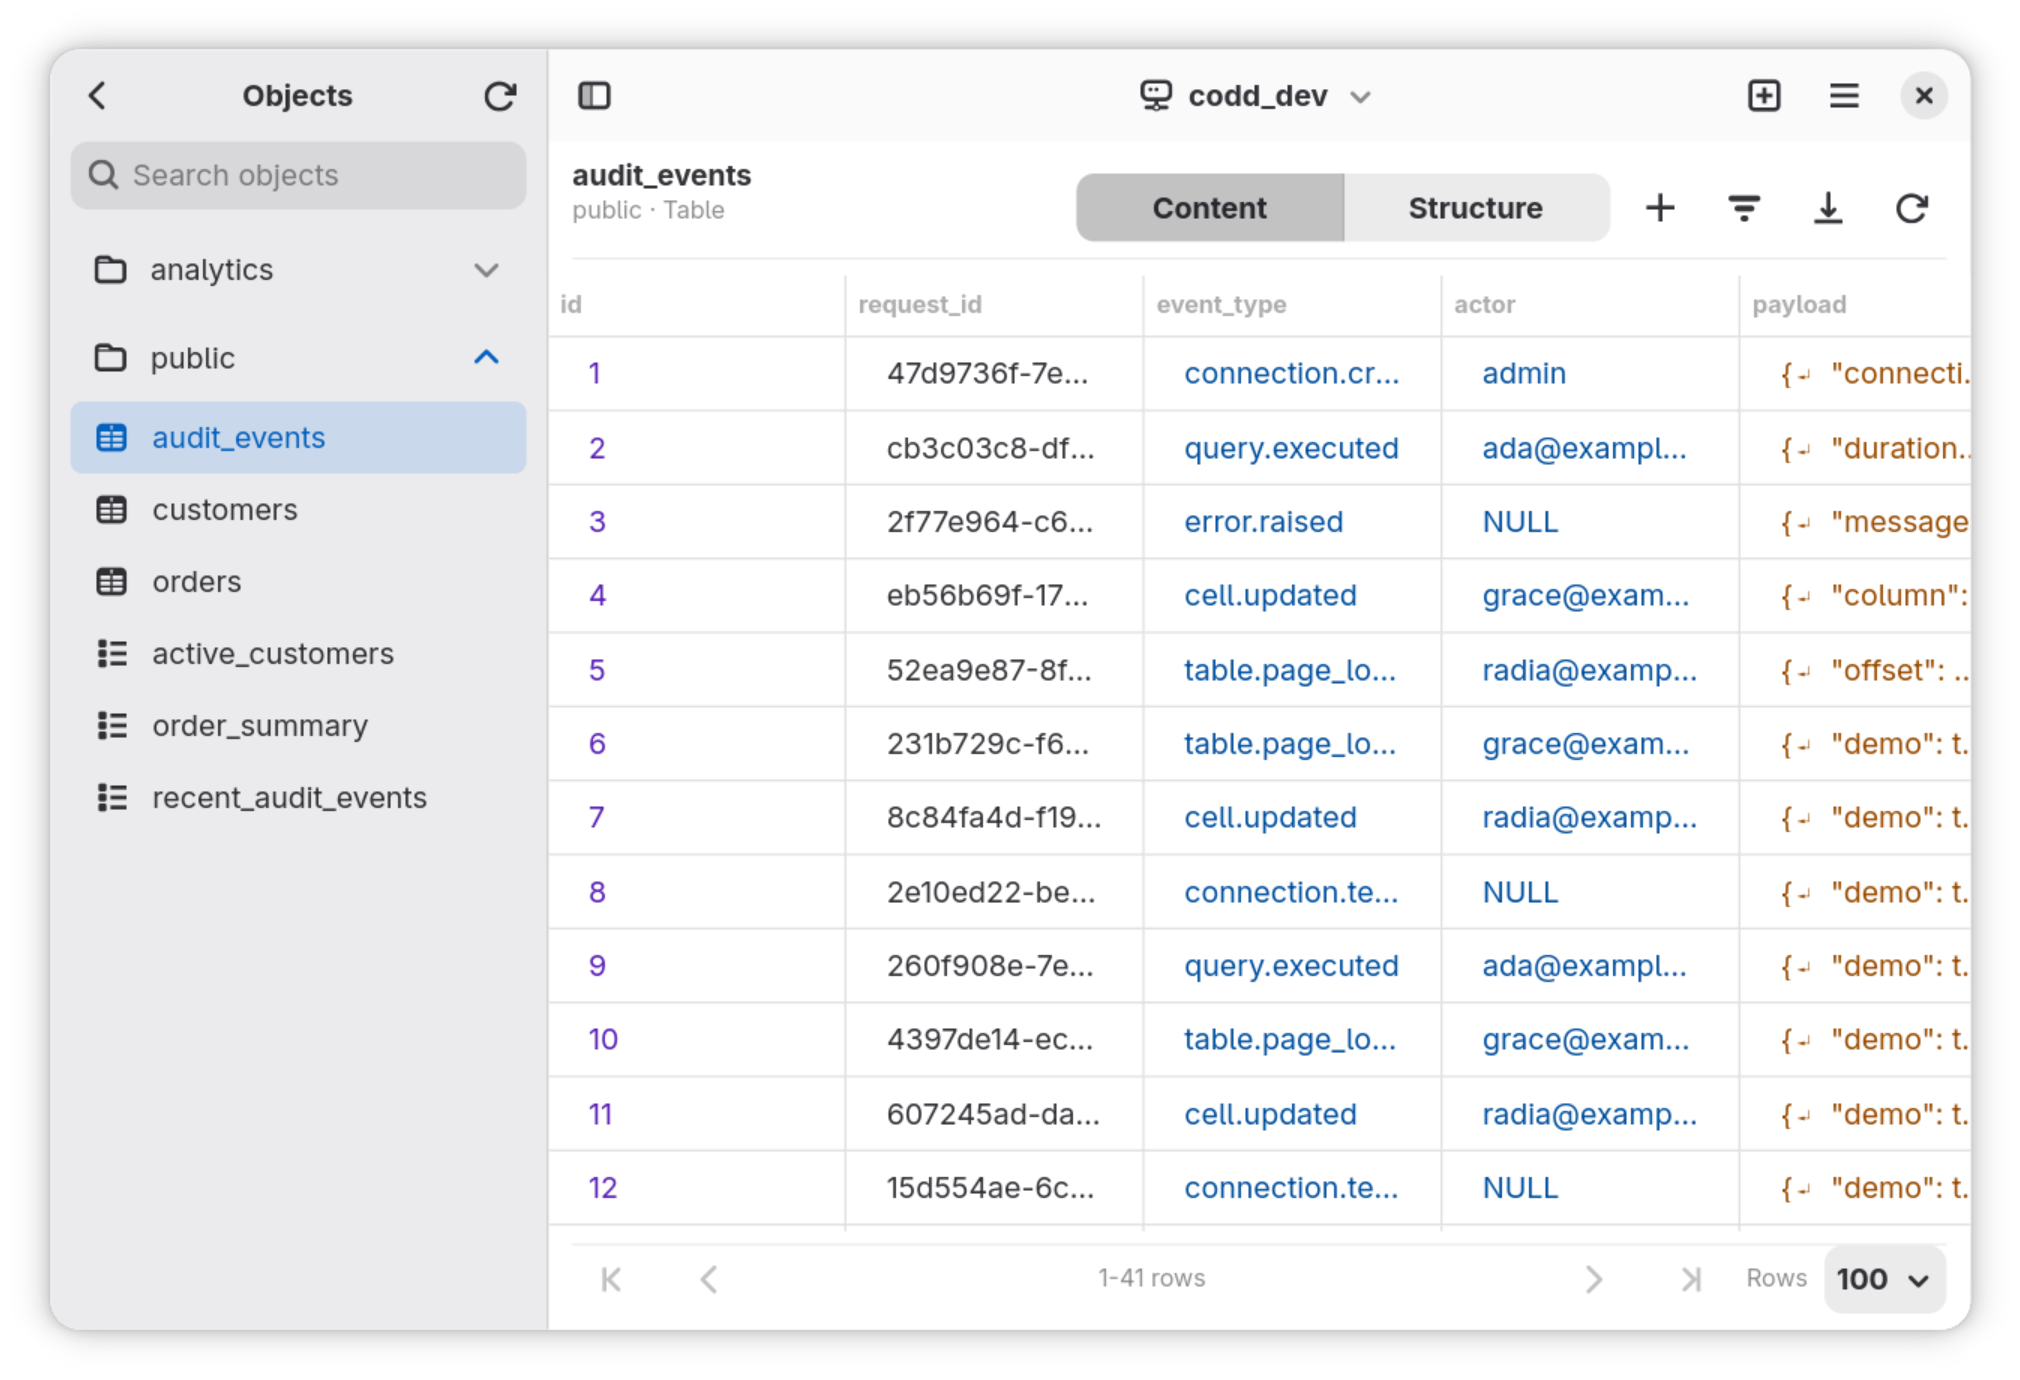
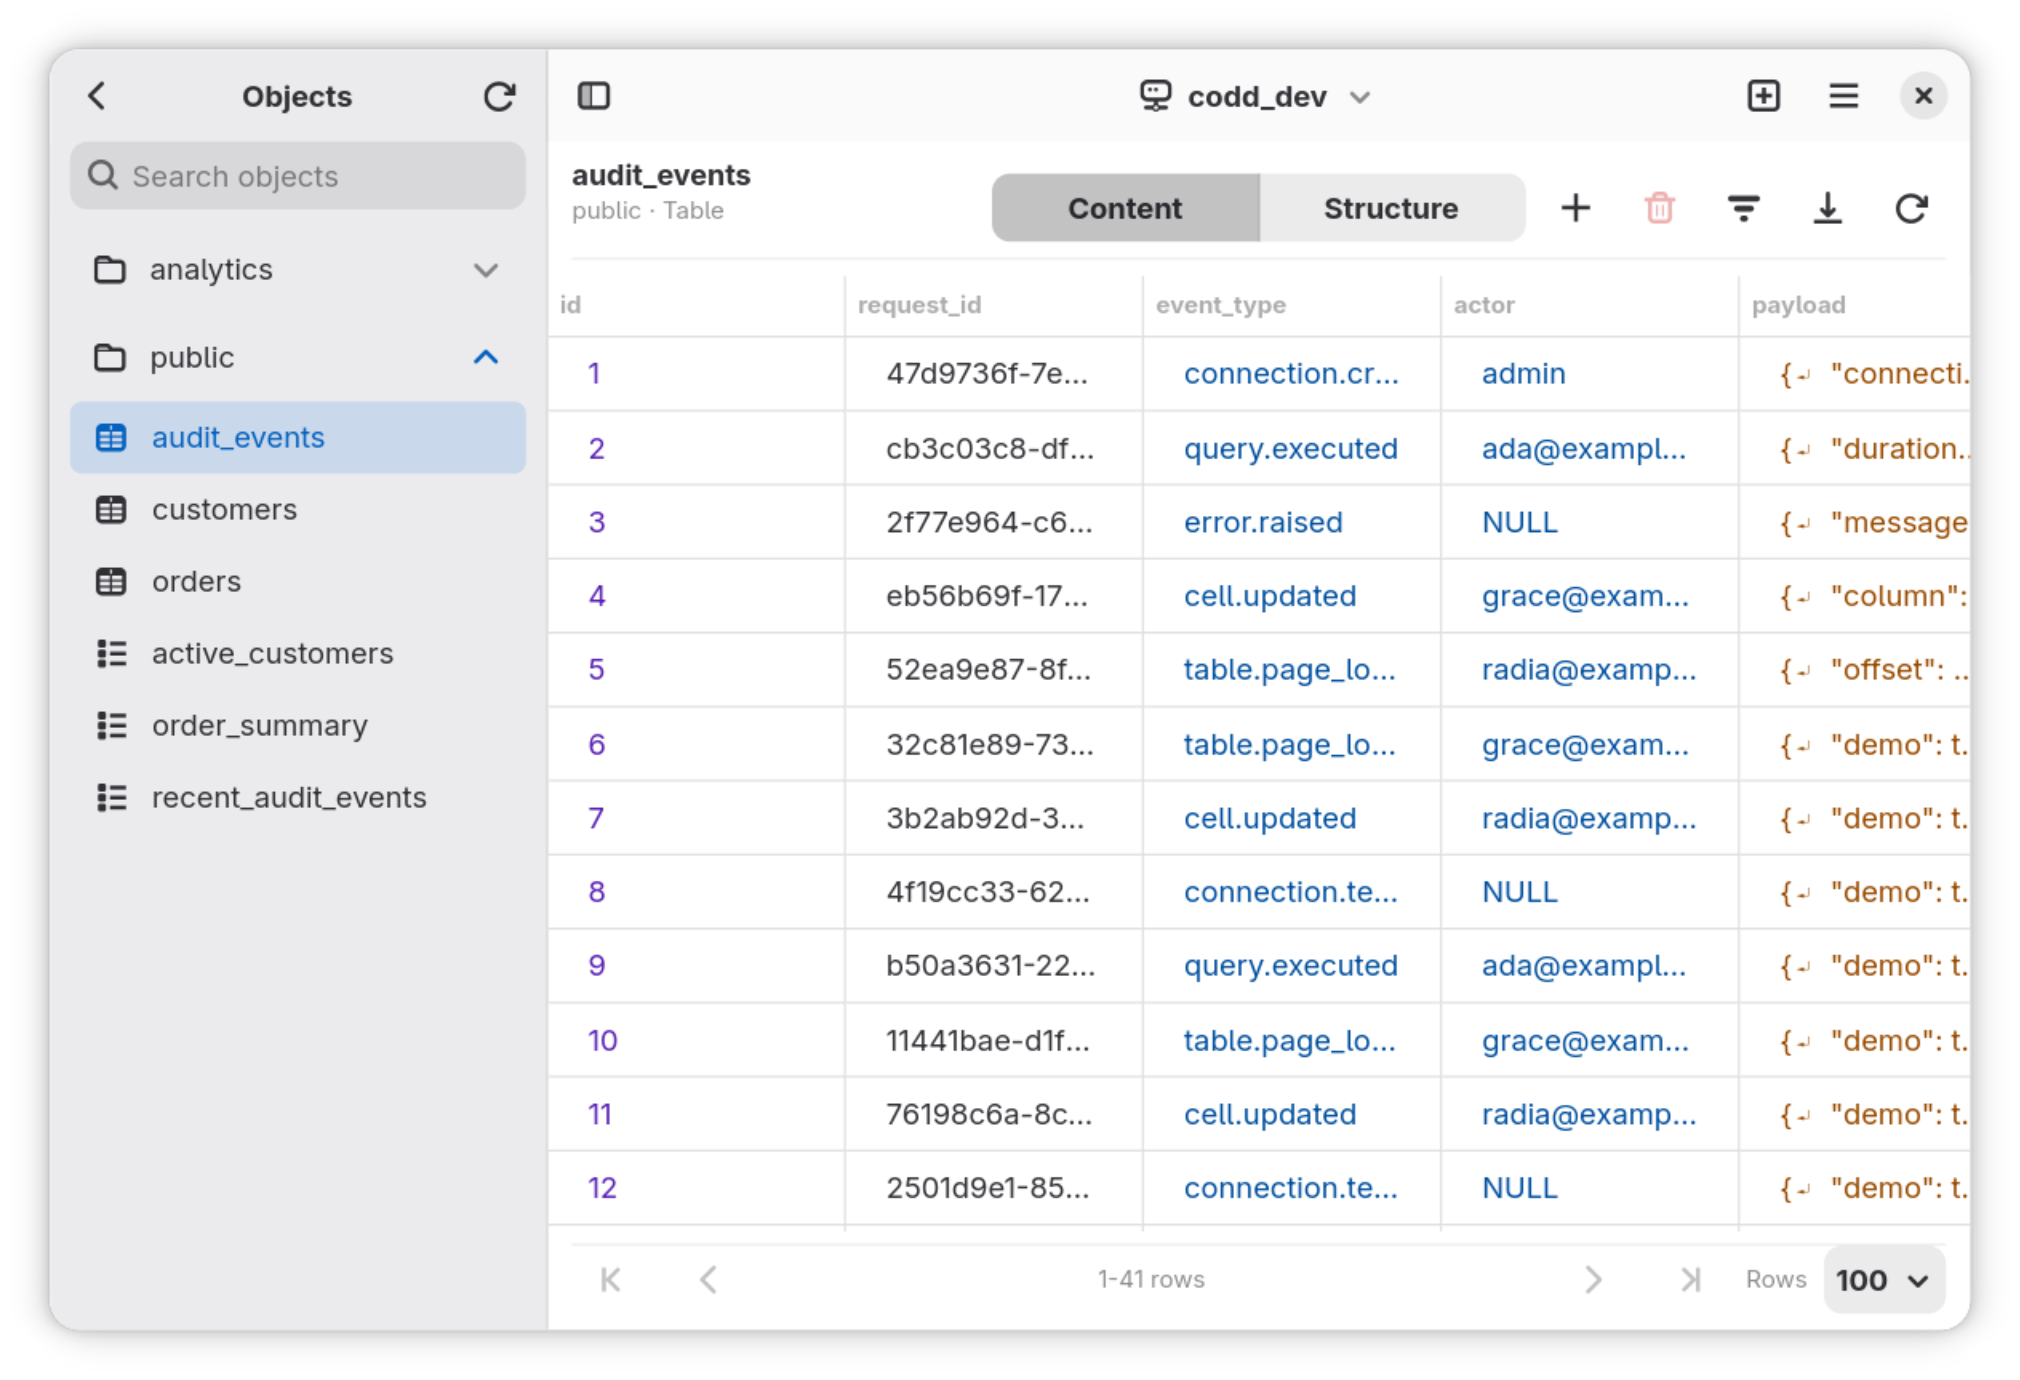
Release 0.11.0

diff --git a/README.md b/README.md
@@ -17,7 +17,7 @@ The app started as a personal-use SQL editor: lightweight, native, focused, and 
 - Write SQL with syntax highlighting and line numbers
 - Reuse automatically saved query history per database
 - Browse table rows with pagination, filters, custom SQL filters, and editable cell values
-- Insert new table rows from the table browser
+- Insert and delete table rows from the table browser
 - Export results as CSV
 - Generate common table scripts from the object sidebar
 - Rename, truncate, and delete tables or views from the object sidebar
